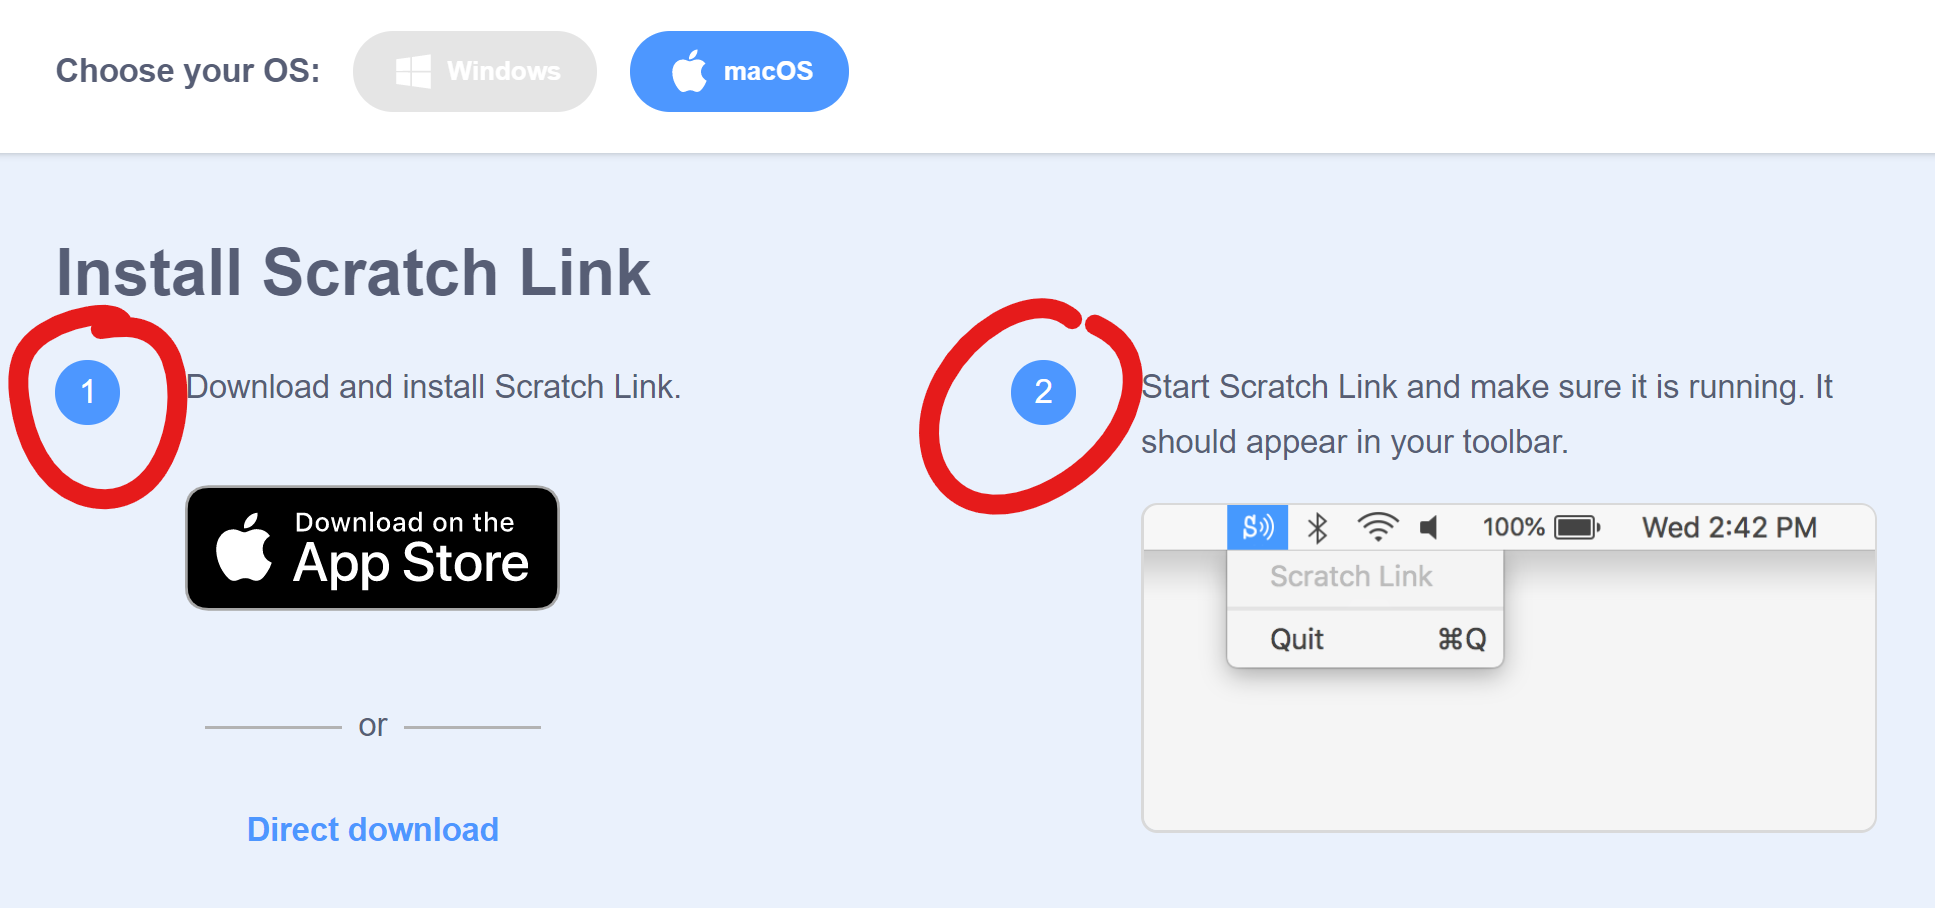
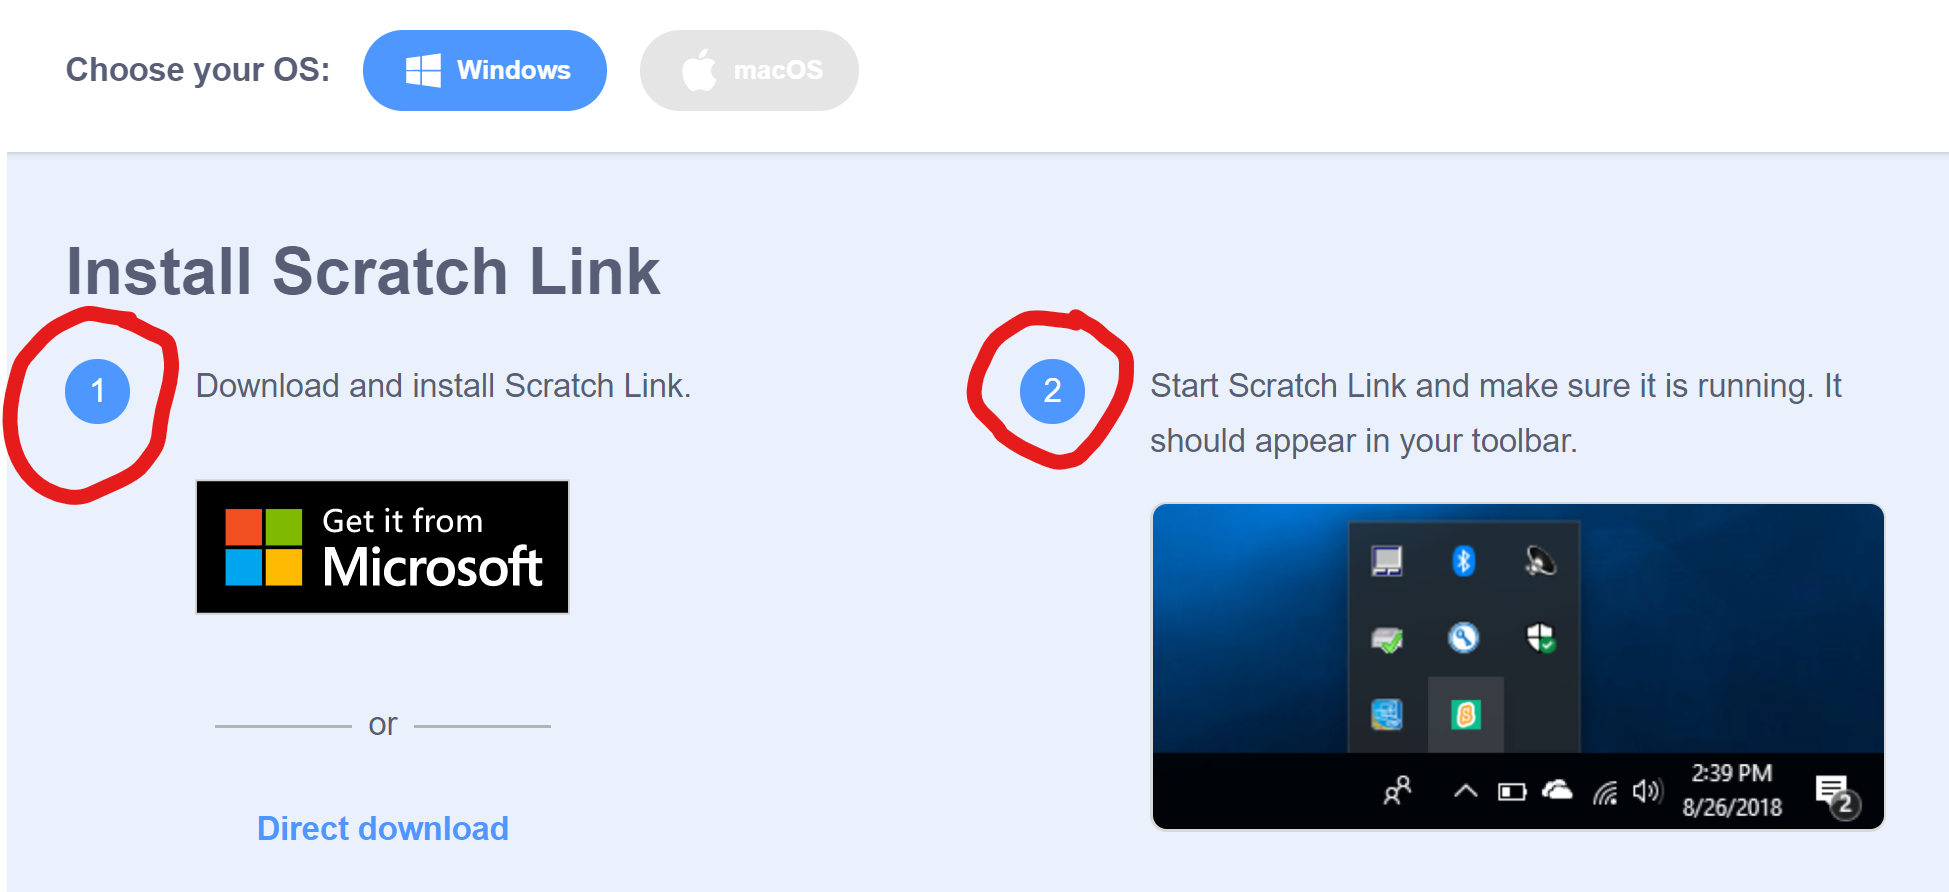
update to bt connect, windows SS, and battery

diff --git a/maze/maze3.md b/maze/maze3.md
@@ -24,10 +24,12 @@ The picture above (taken from the [micro:bit features page](https://www.microbit
 
 To enable Scratch to work with the micro:bit you need to:
 
-1. install software on your computer, 
-2. update the software running on the micro:bit,
-3. add the micro:bit extension to Scratch,
-4. and finally, verify the micro:bit extension installed
+1. Install software on your computer
+2. Update the software running on the micro:bit,
+3. Add the micro:bit extension to Scratch
+4. Start micro:bit Connection
+5. Verify the micro:bit extension installed
+6. Connect the Battery Pack
 
 #### Step 1. Install and start Scratch Link you to your computer
 
@@ -51,7 +53,6 @@ Scratch has the concept of allowing people to create additional sets of blocks. 
 
 Extensions are accessed through the Extensions button at the bottom-left of the screen:
 
-
 ![The Extensions Button in the Scratch Editor](./images/scratch-add-extension.png)
 
 Clicking this button will take you to another page which shows all the available extensions:
@@ -60,7 +61,19 @@ Choose the **micro:bit extension**.
 
 ![Choose the micro:bit extension](./images/extensions2.png)
 
-### Step 4. Verify the micro:bit Extension is Enabled
+### Step 4. Start the micro:bit Connection
+
+1. Click **Connect** to start a Bluetooth connection to between your computer and the micro:bit.
+
+    If there are several micro:bits showing up in the connection window, you can identify yours by looking at the LEDs on the micro:bit. There should be a set of 5 letters scrolling across them. Those letters are a unique label for your micro:bit and you can find that label in the list and connect to that one.
+
+    ![Connect to your micro:bit](./images/extensions5.png)
+    <br/>
+2. Finally, click the `Go to editor` button.
+
+    ![](./images/extensions6.png)
+
+### Step 5. Verify the micro:bit Extension is Enabled
 
 You will be returned to your project. Notice that the functions group now has an additional set of blocks for interacting with the micro:bit
 
@@ -68,15 +81,17 @@ You will be returned to your project. Notice that the functions group now has an
 
 Now you're ready to use your micro:bit to control the ball in the maze.
 
+### Step 6. Connect the Battery Pack
+
+Finally, if you have a micro:bit battery pack you can connect it to the the micro:bit and unplug the USB cable.
+
+![](./images/micro-bit-battery-pack.gif)
+
 ## Troubleshooting
 
 Follow the troubleshooting guide on the [Scratch/micro:bit support page](https://scratch.mit.edu/microbit).
 
-## Bluetooth Support
 
-If you have a micro:bit battery pack then you can also connect to your micro:bit to your computer via Bluetooth. If there are several micro:bits showing up in the connection window, you can identify yours by looking at the LEDs. There should be a set of 5 letters scrolling across them. Those letters are a unique label for your micro:bit and you can find that label in the list and connect to that one, then click the `Go to editor` button.
-
-![Connect to your micro:bit](./images/extensions5.png)
 
 
 [|< Home](../README.md)  
